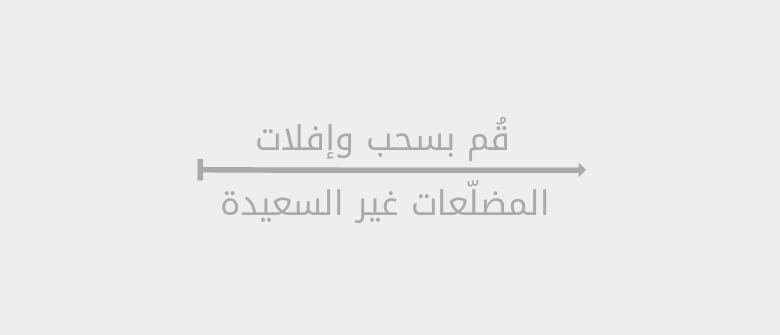
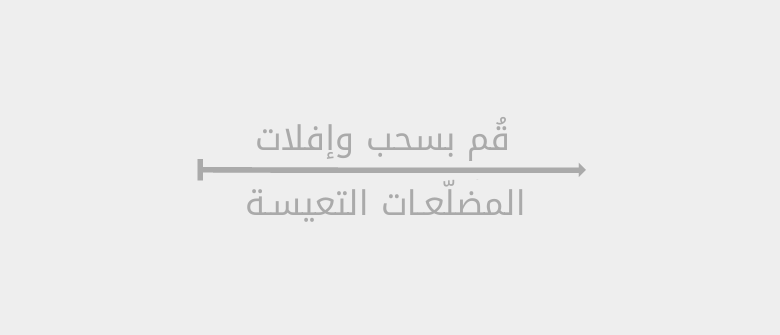
Finalization

Changed region(s): [[0.2769, 0.5373, 0.7077, 0.6567]]

diff --git a/index.html b/index.html
@@ -60,7 +60,7 @@
 		<iframe id="mini_intro" playable src="play/mini/mini_intro.html" width="800" height="385" scrolling="no" style="margin:0 auto;display:block" embedded></iframe>
 
 		<p lang="ar">
-لا يمكنك أن تنقل هذه الأشكال إلا إذا كانت غير سعيدة في جوارها المباشر، فعندما تكون راضية في مكانها، <i>لا يمكنك تحريكها حتى تصبح غير سعيدة بين جيرانها</i>. هناك قاعدة بسيطة واحدة لها:
+لا يمكنك أن تنقل هذه الأشكال إلا إذا كانت تعيسة في جوارها المباشر، فعندما تكون قانعة في مكانها، <i>لا يمكنك تحريكها حتى تصبح تعيسة بين جيرانها</i>. هناك قاعدة بسيطة واحدة لها:
 
 		</p>
 
@@ -84,7 +84,7 @@
 في الحقيقة...
 		</p>
 		<div class="instruction" lang="ar">
-			اسحب وأفلِت المضلّعات غير السعيدة حتى لا يبقى منها أي واحد غير سعيد.<br>
+			اسحب وأفلِت المضلّعات التعيسة حتى لا يبقى منها أي واحد تعيس.<br>
 			<span style="font-size:18px">(ببساطة انقلها إلى الأماكن الفارغة عشوائياً. لا تفكّر كثيراً في الأمر.)</span>
 		</div>
 
@@ -107,7 +107,7 @@
 		<iframe id="mini_neighborhood" playable src="play/mini/mini_neighborhood.html" width="730" height="240" scrolling="no" style="margin:0 auto;display:block" embedded></iframe>
 
 		<p lang="ar">
-			في الجزء التالي، تنتقل الأشكال غير السعيدة تلقائياً إلى أماكن فارغة عشوائية. هناك أيضاً رسم بياني يتعقّب زمنيّاً مستوى انغلاق كلٍّ من الأشكال في تجمُّعات منعزلة.
+			في الجزء التالي، تنتقل الأشكال التعيسة تلقائياً إلى أماكن فارغة عشوائية. هناك أيضاً رسم بياني يتعقّب زمنيّاً مستوى انغلاق كلٍّ من الأشكال في تجمُّعات منعزلة.
 		</p>
 		<div class="instruction" lang="ar">
 			أعِد التجربة عدّة مرّات. ماذا يحدث؟
@@ -122,7 +122,7 @@
 	<!-- CHAPTER -->
 	<div class="chapter">
 		<p lang="ar">
-			ما الخطأ في هذا؟ هناك أشكال جيدة، أشكال جميلة. لكن بالرغم من أن لكل فرد انحياز بسيط فقط، فإن الشكل العام للمجتمع يتصدّع ويتجزّأ.
+			ما الخطأ في هذا؟ هناك أشكال جيدة، أشكال جميلة. لكن بالرغم من أن لكل فرد انحياز بسيط فقط، فإن مجتمع الأشكال بأسره يتصدّع ويتجزّأ.
 		</p>
 		
 		<iframe id="mini_checkerboard" playable src="play/mini/mini_checkerboard.html" width="730" height="240" scrolling="no" style="margin:0 auto;display:block" embedded></iframe>
@@ -150,8 +150,8 @@
 		</p>
 		
 		<br>
-		<iframe id="mini_bias_1" playable src="play/mini/mini_bias_1.html" width="310" height="440" scrolling="no" style="float:left; margin:0; margin-left:50px" embedded></iframe>
-		<iframe id="mini_bias_2" playable src="play/mini/mini_bias_2.html" width="310" height="440" scrolling="no" style="float:right; margin:0; margin-right:50px" embedded></iframe>
+		<iframe id="mini_bias_1" playable src="play/mini/mini_bias_1.html" width="310" height="455" scrolling="no" style="float:left; margin:0; margin-left:50px" embedded></iframe>
+		<iframe id="mini_bias_2" playable src="play/mini/mini_bias_2.html" width="310" height="455" scrolling="no" style="float:right; margin:0; margin-right:50px" embedded></iframe>
 		<div style="clear:both;height: 0;position: relative;top:-20px;">
 			<div style="width: 6px; height: 400px; background: #bbb;position: absolute;top: -420px;left: 397px;"></div>
 		</div>
@@ -177,10 +177,10 @@
 
 		</p>
 		
-		<iframe id="mini_nonconform" playable src="play/mini/mini_nonconform.html" width="400" height="440" scrolling="no" style="margin:0 auto;display:block" embedded></iframe>
+		<iframe id="mini_nonconform" playable src="play/mini/mini_nonconform.html" width="400" height="460" scrolling="no" style="margin:0 auto;display:block" embedded></iframe>
 
 		<p lang="ar">
-بالرغم من أن المضلّعات جميعاً لا تمانع أن يكون 90% من جيرانها مماثلين لها، تختلط كلها معاً! دعونا نجرّب هذا على نطاقٍ أوسع، عندما نغيّر مستوى الانحياز ومستوى مقاومته للأشكال جميعاً.
+بالرغم من أن المضلّعات جميعاً لا تمانع أن يكون 90% من جيرانها مماثلين لها، تختلط كلها معاً! دعونا نجرّب هذا على نطاقٍ أوسع، عندما نغيّر مستوى الانحياز ومستوى مقاومة الانحياز للأشكال جميعاً.
 
 		</p>
 		<div class="instruction" lang="ar">
@@ -196,7 +196,7 @@
 	<!-- CHAPTER -->
 	<div class="chapter">
 		<p lang="ar">
-			كل ما يحتاجه الأمر هو تغيير في فهمنا لما تكون عليه البيئة المقبولة. لذا، يا رفاقي الأشكال، تذكروا أن الأمر ليس بالمثلثات ضد المربعات، بل في قرارنا حول ما نريد أن يكون العالم عليه، وألّا نرضى بأقل من ذلك.
+			كل ما يحتاجه الأمر هو إحداث تغيير في مفهومنا عن البيئة المقبولة. لذا، يا رفاقي الأشكال، تذكروا أن القضية ليست قضية مثلثات ضد مربعات، بل قضية قرارنا حول ما نريد أن يكون العالم عليه، وألّا نرضى بأقل من ذلك.
 		</p>
 		<p style="text-align:center" lang="ar">
 			<b>
@@ -207,7 +207,7 @@
 			</b>
 		</p>
 
-		<iframe playable src="play/mini/mini_cooperate.html" width="810" height="290" scrolling="no" style="margin:0 auto;display:block" embedded></iframe>
+		<iframe playable src="play/mini/mini_cooperate.html" width="810" height="300" scrolling="no" style="margin:0 auto;display:block" embedded></iframe>
 		
 		<p lang="ar">
 			في البداية، قد يؤدي الخروج وحدك إلى العزلة… لكن بالعمل معاً، خطوةً بخطوة، سنصل.
@@ -229,7 +229,7 @@
 			الملخص:
 		</div>
 		<p lang="ar">
-			<b>1. تحيز فردي صغير &larr; تحيز جمعي كبير.</b>
+			<b>1. انحياز فردي صغير &larr; انحياز جمعي كبير.</b>
 			<br>
 			<!--Micromotives, macrobehaviour...-->
 عندما يقول أحدهم أن ثقافةً ما تُميِّز على أساس ’الشكل‘ فإنه لا يقصد أنّ <i>الأفراد</i> فيها كذلك. إنه لا يهاجمك شخصياً.
@@ -243,7 +243,7 @@
 		<p lang="ar">
 			<b>3. طالب بالتنوّع في الجوار.</b>
 			<br>
-			إذا كانت الانحيازات الصغيرة سببَ الفوضى التي نعيش فيها فإن أعمالاً مضادة للانحياز ستصلح الأمر. انظر حولك، أصدقاءك، وزملاءك، وذلك المؤتمر الذي سوف تحضره. إذا كان جميعكم من المثلثات، فإنكم تفقدون مربعات مذهلة في حياتكم - وهذا غير عادلٍ للجميع. حاول الوصول إلى أبعد من جوارك المباشر.
+			إذا كانت الانحيازات الصغيرة سببَ الفوضى التي نعيش فيها فإن أعمالاً مضادة للانحياز ستُصلح الأمر. انظر حولك، أصدقاءك، وزملاءك، وذلك المؤتمر الذي سوف تحضره. إذا كان جميعكم من المثلثات، فإنكم تفقدون مربعات مذهلة في حياتكم - وهذا غير عادلٍ للجميع. حاول الوصول إلى أبعد من جوارك المباشر.
 		</p>
 		<iframe playable src="play/mini/mini_ending.html" width="600" height="80" scrolling="no" style="margin:0 auto;display:block" embedded></iframe>
 	</div>
@@ -260,7 +260,7 @@
 				تقوم محاكاة الانغلاق الظريفة هذه على عمل الباحث في نظريات الألعاب، توماس شلّلنغ. وبالتحديد، أطروحته لعام 1971،
 				<a target="_blank" href="http://www.stat.berkeley.edu/~aldous/157/Papers/Schelling_Seg_Models.pdf">
 				نماذج ديناميكية عن الانغلاق</a>. 
-				بنينا على هذا وأظهرنا كيف أنّ رغبة بسيطة في التنوّع قادرةٌ على تحرير جوارٍ من انغلاقه. بمعنىً آخر، لقد منحنا نموذجه نهايةً سعيدة.
+				بنينا على هذا وأظهرنا كيف أنّ رغبة بسيطة في التنوّع قادرةٌ على تحرير جوارٍٍ من انغلاقه. بمعنىً آخر، لقد منحنا نموذجه نهايةً سعيدة.
 				<br><br>
 
 				يتضمّن نموذج شلّلنغ الجوهر الأساسي لهذا، لكن بالطبع، الحياة الواقعية أكثر تنوعاً. قد تجد المتعة في معاينة بياناتٍ واقعية، مثل أطروحة و.أ.ف. كلارك عام 1991، 
@@ -283,7 +283,7 @@
 عظة اليوم&trade; هي أن المطالبة بالقليل من التنوّع
 من حولك يُحدث فرقاً كبيراً في النهاية. انظر
 				<a target="_blank" href="http://plzdiversifyyourpanel.tumblr.com/">Plz Diversify Your Panel</a>
-(اجعل ندواتك متنوّعة)، هي مبادرة يتعهّد فيها المتحدّثون الذين يُدعَون بكثرة بعدم المشاركة في الندوات التي لا تضمّ جمهوراً متنوّعاً.
+(اجعل ندواتك متنوّعة)، هي مبادرة يتعهّد فيها المتحدّثون الذين يُدعَون بكثرة بالامتناع عن المشاركة في الندوات التي لا تضمّ جمهوراً متنوّعاً.
 
 				<br><br>
 صفحة الوِب التفاعليّة هذه مستوحاة من 

diff --git a/play/mini/mini_bias_1.html b/play/mini/mini_bias_1.html
@@ -1,6 +1,7 @@
 <!doctype html>
 <html>
 <head>
+    <meta charset="utf-8">
 	<link href="mini.css" rel="stylesheet" type="text/css">
 	<link href="../../css/arabic.css" rel="stylesheet" type="text/css">
 </head>
@@ -9,11 +10,11 @@
 	<br>
 	<div style="text-align:center; margin:10px 0; color:#777" lang="ar">
 		يريد أن ينتقل إذا كان
-<span style="color:#dd3939">أقل من 33%</span> من
+<span style="color:#dd3939">أقل من 33%</span>
 		<br>
-		جيرانه مشابهين له
+ من جيرانه مشابهين له
 	</div>
-	<div id="reset" onclick="reset()">reset</div>
+	<div id="reset" onclick="reset()" lang="ar">إعادة</div>
 
 	<script>
 	var TILE_SIZE = 100;

diff --git a/play/mini/mini_bias_2.html b/play/mini/mini_bias_2.html
@@ -9,11 +9,11 @@
 	<br>
 	<div style="text-align:center; margin:10px 0; color:#777" lang="ar">
 		يريد أن ينتقل إذا كان
-<span style="color:#dd3939">أقل من 50%</span> من
+<span style="color:#dd3939">أقل من 50%</span>
 		<br>
-		جيرانه مشابهين له
+ من جيرانه مشابهين له
 	</div>
-	<div id="reset" onclick="reset()">reset</div>
+	<div id="reset" onclick="reset()" lang="ar">إعادة</div>
 
 	<script>
 	var TILE_SIZE = 100;

diff --git a/play/automatic/automatic_sandbox.html b/play/automatic/automatic_sandbox.html
@@ -21,7 +21,7 @@
 				<canvas id="stats_canvas" width="370" height="270"></canvas>
 				<div id="stats_text"></div>
 			</div>
-			<div lang="ar">
+			<div lang="ar" style="margin: 0 -5px;">
 
 			أنتقل إذا كان <span class="highlight">أقلّ من <span id="bias_text">33%</span></span> 
 			أو <span class="highlight">أكثر من <span id="nonconform_text">100%</span></span> من جيراني مثلي

diff --git a/play/automatic/automatic3.html b/play/automatic/automatic3.html
@@ -1,9 +1,11 @@
 <!doctype html>
 <html>
 <head>
+    <meta charset="utf-8">
 	<title>Automatic Simulation - Start Biased</title>
 	<link href="automatic.css" rel="stylesheet" type="text/css">
 	<link href="doubleslider.css" rel="stylesheet" type="text/css">
+	<link href="../../css/arabic.css" rel="stylesheet" type="text/css">
 </head>
 <body>
 	<div id="container">

diff --git a/play/mini/mini_nonconform.html b/play/mini/mini_nonconform.html
@@ -8,7 +8,7 @@
 <body>
 	<canvas id="canvas"></canvas>
 	<br>
-	<div style="text-align:center; margin:10px 0; color:#777">
+	<div style="text-align:center; margin:10px 0; color:#777" lang="ar">
 		يريد أن يتحرك إذا كان <span style="color:#dd3939">أكثر من 90%</span> من
 		<br>
 		جيرانه مثله

diff --git a/play/mini/mini_unhappy.html b/play/mini/mini_unhappy.html
@@ -8,7 +8,7 @@
 	<canvas id="canvas"></canvas>
 	<br>
 	<div lang="ar" style="text-align:center; margin:10px 0; color:#777; font-size:15px">
-		<span style="color:#dd3939">غير سعيد:</span>
+		<span style="color:#dd3939">تعيس:</span>
 		1 من 6 من جيراني مثلي. أقل من الثلث.
 	</div>
 

diff --git a/css/arabic.css b/css/arabic.css
@@ -2,8 +2,10 @@
 *[lang="ar"] {
   direction: rtl;
   font-family: 'Droid Arabic Naskh';
+  line-height: 1.6em;
 }
-*[lang="ar"] i {
+
+*[lang="ar"] i, *[lang="ar"] strong {
   font-weight: bold;
 }
 
